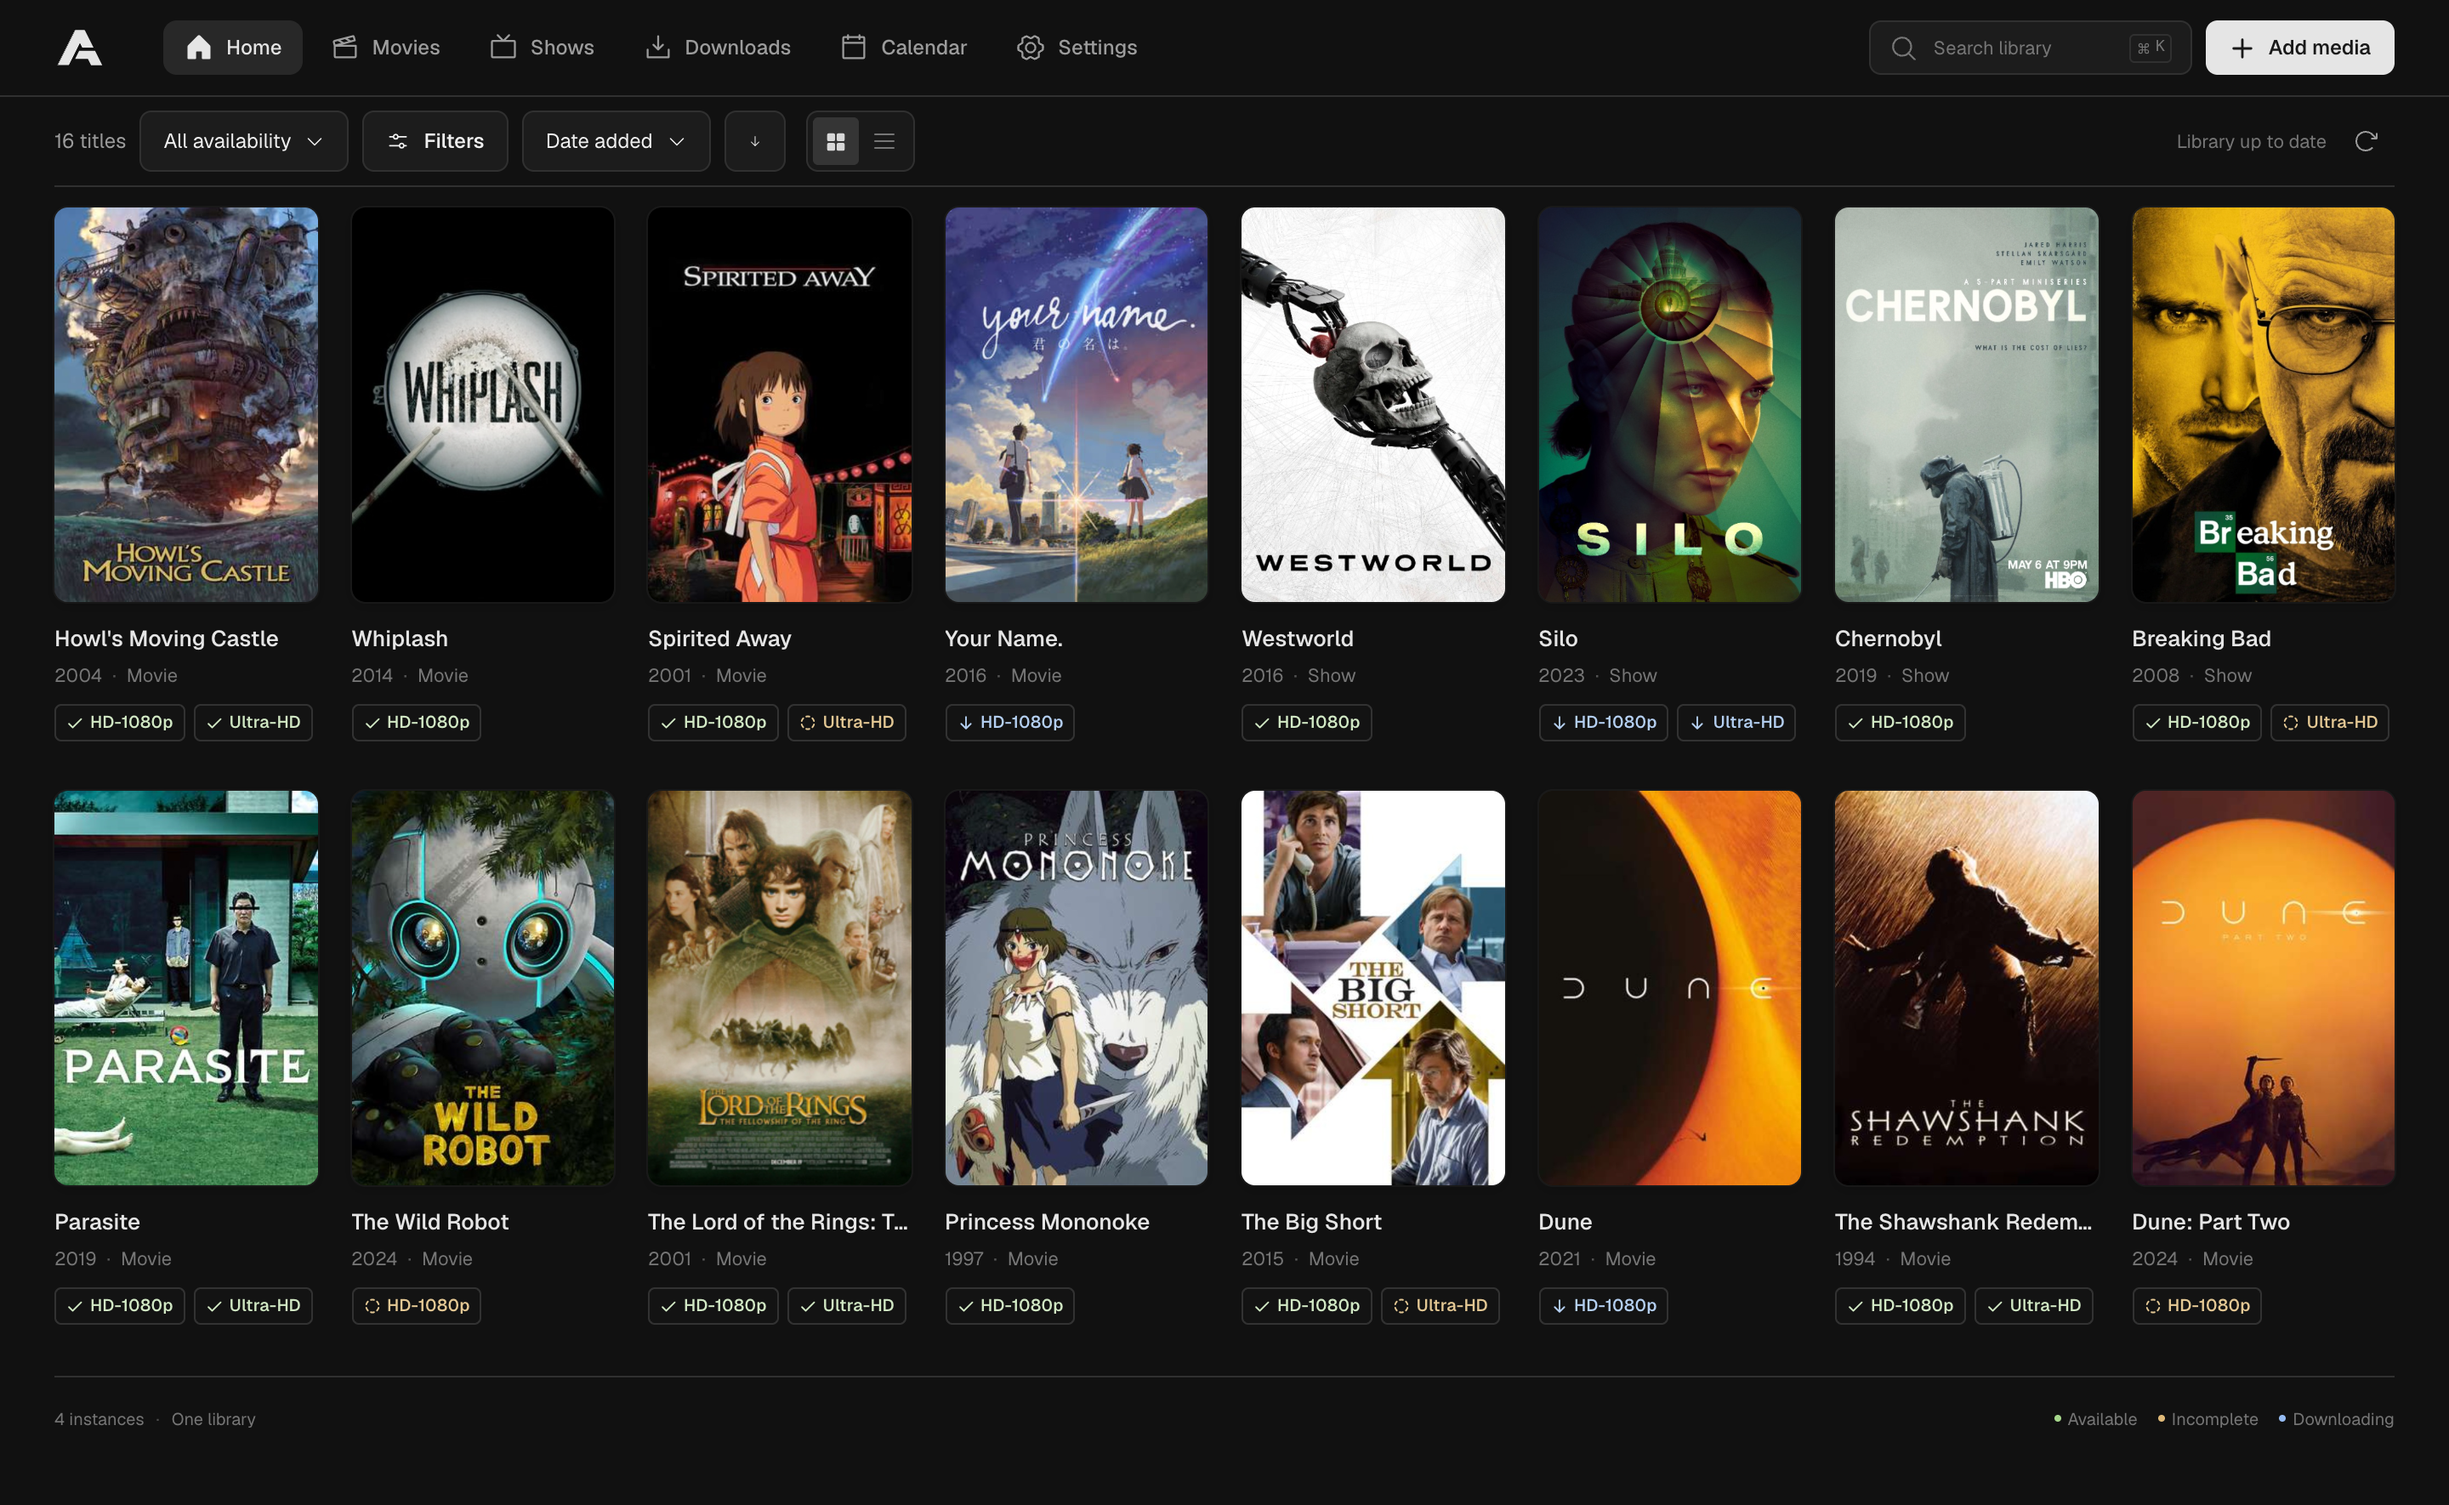
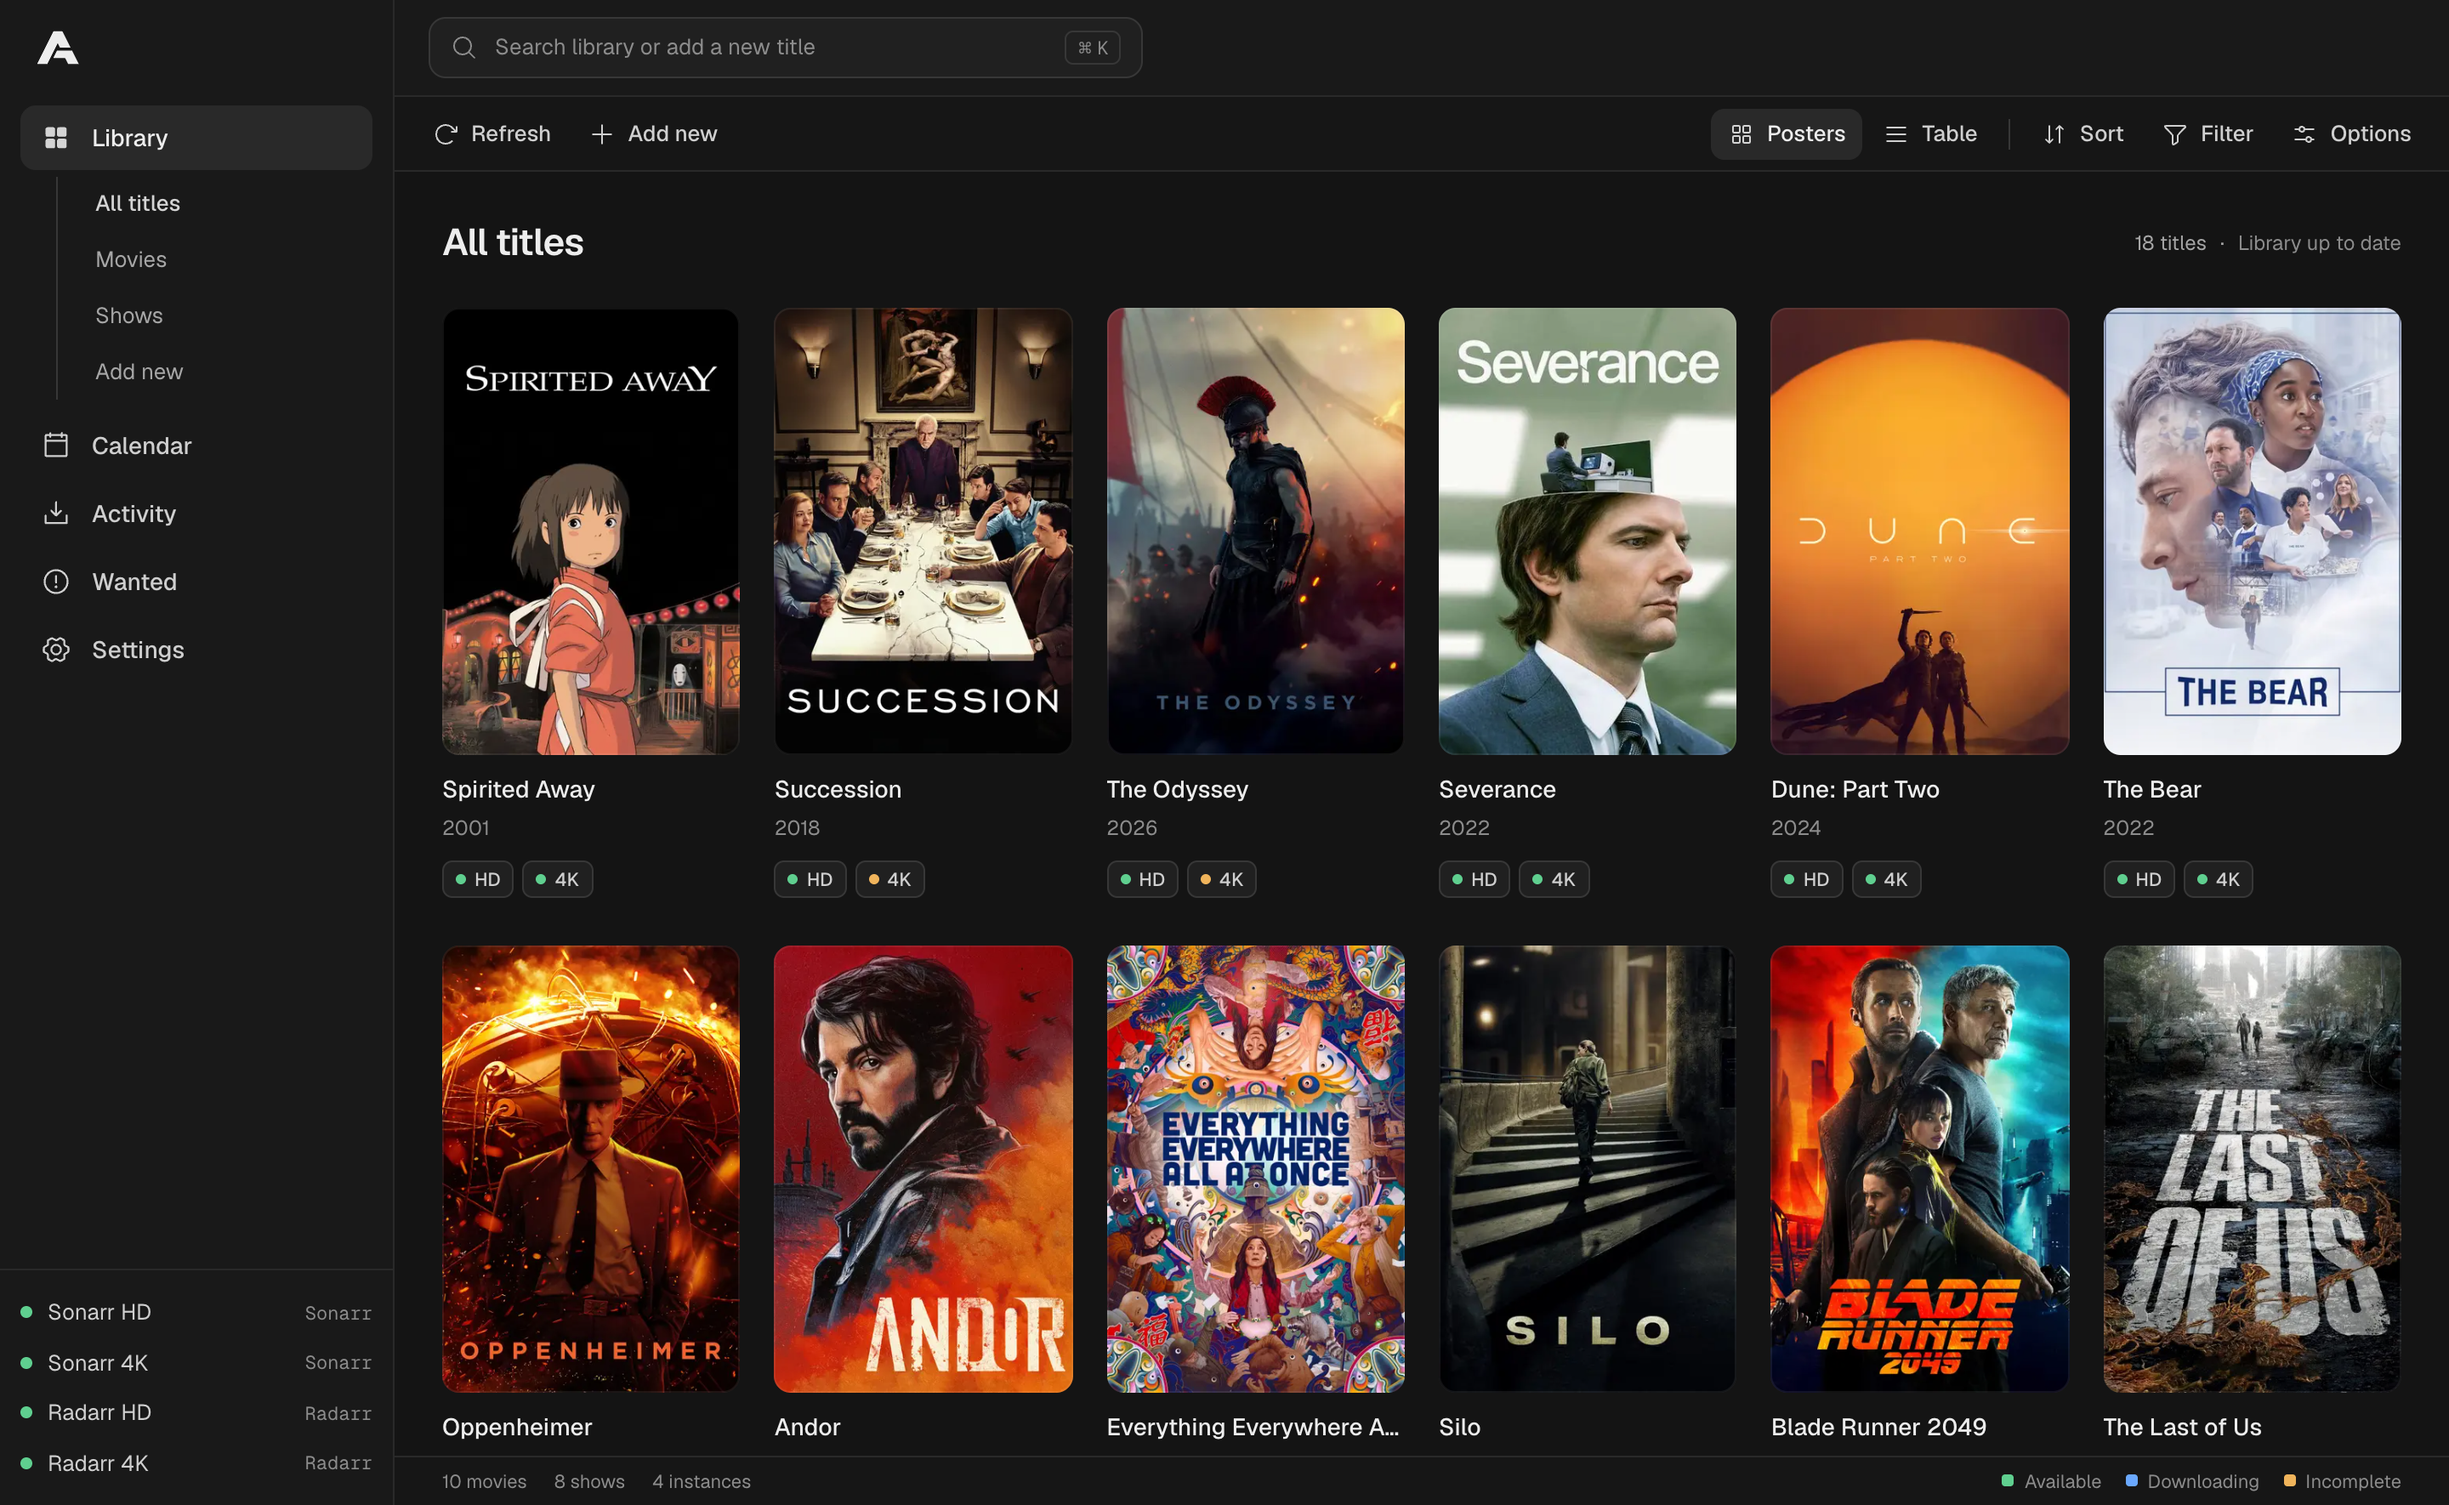
docs: refresh the README screenshot for the redesign

diff --git a/README.md b/README.md
@@ -4,7 +4,7 @@
 
 Arrsenal brings your movies, shows, and download queues into one web interface, even when your HD and 4K libraries live on separate instances.
 
-![Arrsenal library showing movies and TV shows across demo Sonarr and Radarr instances](docs/images/library-demo.png)
+![Arrsenal library in poster view, with movies and shows from Sonarr and Radarr instances in one sidebar layout](docs/images/library-demo.png)
 
 *Poster artwork belongs to its respective owners.*
 
